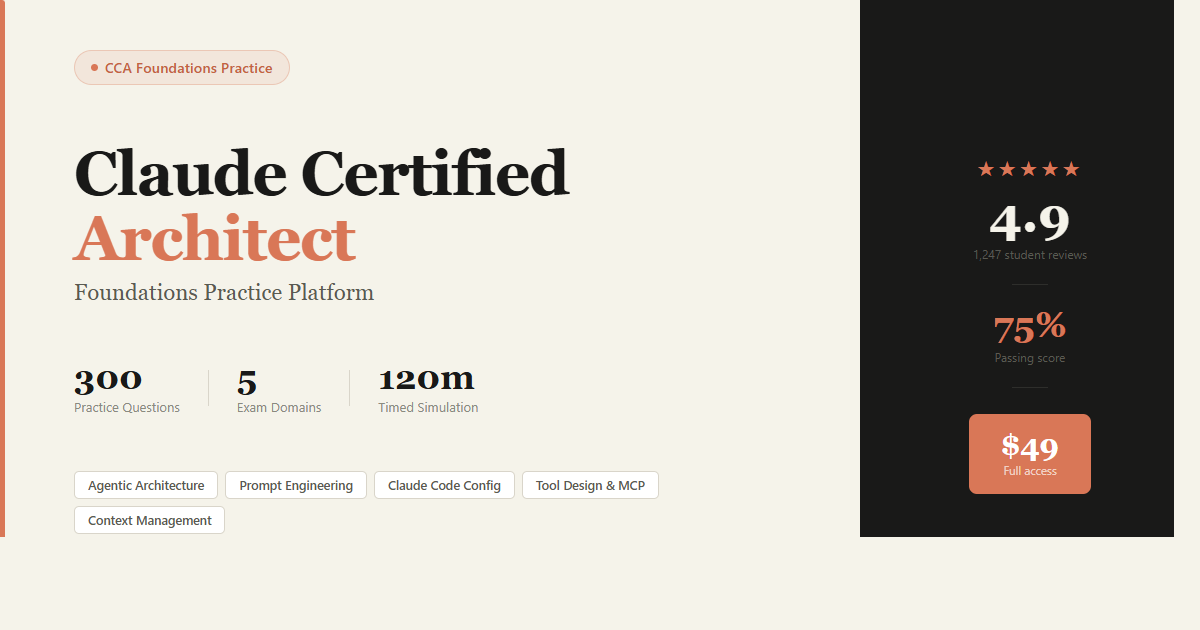
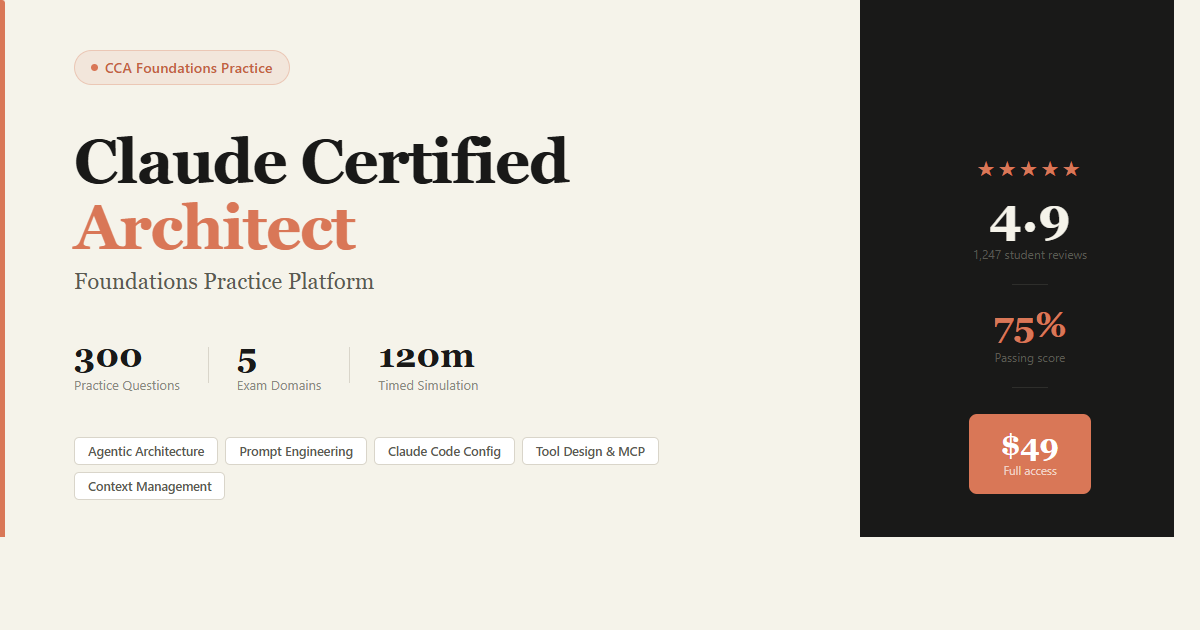
Move OG card footer higher, merge URL and disclaimer to one line
Footer now at bottom:80px (was 52px) — well clear of any preview cropping.
URL and disclaimer combined on one line separated by · for compactness.

diff --git a/og-image.html b/og-image.html
@@ -14,7 +14,7 @@ body{
 /* ── Left panel ─────────────────────────────── */
 .left{
   flex:1;
-  padding:50px 68px 96px 74px;
+  padding:50px 68px 130px 74px;
   display:flex;
   flex-direction:column;
   justify-content:space-between;
@@ -89,19 +89,19 @@ body{
 
 .footer-area{
   position:absolute;
-  bottom:52px;
+  bottom:80px;
   left:74px;
 }
 .footer-row{
-  display:flex;align-items:center;gap:8px;
+  display:flex;align-items:center;gap:10px;
   font-family:-apple-system,system-ui,sans-serif;
-  font-size:14px;color:#5a5a52;
+  font-size:13px;color:#5a5a52;
 }
-.footer-dot{width:5px;height:5px;background:#d97757;border-radius:50%}
+.footer-dot{width:5px;height:5px;background:#d97757;border-radius:50%;flex-shrink:0}
+.footer-sep{color:#d9d5ca;font-size:12px}
 .disclaimer{
-  margin-top:7px;
   font-family:-apple-system,system-ui,sans-serif;
-  font-size:12px;color:#5a5a52;
+  font-size:13px;color:#8a8a7f;
 }
 
 /* ── Right panel ─────────────────────────────── */
@@ -204,8 +204,9 @@ body{
     <div class="footer-row">
       <div class="footer-dot"></div>
       claudecertifiedarchitects.com
+      <span class="footer-sep">·</span>
+      <span class="disclaimer">For educational purposes only. Not affiliated with Anthropic.</span>
     </div>
-    <div class="disclaimer">For educational purposes only. Not affiliated with Anthropic.</div>
   </div>
 </div>
 

diff --git a/og-preview/index.html b/og-preview/index.html
@@ -14,7 +14,7 @@ body{
 /* ── Left panel ─────────────────────────────── */
 .left{
   flex:1;
-  padding:50px 68px 96px 74px;
+  padding:50px 68px 130px 74px;
   display:flex;
   flex-direction:column;
   justify-content:space-between;
@@ -89,19 +89,19 @@ body{
 
 .footer-area{
   position:absolute;
-  bottom:52px;
+  bottom:80px;
   left:74px;
 }
 .footer-row{
-  display:flex;align-items:center;gap:8px;
+  display:flex;align-items:center;gap:10px;
   font-family:-apple-system,system-ui,sans-serif;
-  font-size:14px;color:#5a5a52;
+  font-size:13px;color:#5a5a52;
 }
-.footer-dot{width:5px;height:5px;background:#d97757;border-radius:50%}
+.footer-dot{width:5px;height:5px;background:#d97757;border-radius:50%;flex-shrink:0}
+.footer-sep{color:#d9d5ca;font-size:12px}
 .disclaimer{
-  margin-top:7px;
   font-family:-apple-system,system-ui,sans-serif;
-  font-size:12px;color:#5a5a52;
+  font-size:13px;color:#8a8a7f;
 }
 
 /* ── Right panel ─────────────────────────────── */
@@ -204,8 +204,9 @@ body{
     <div class="footer-row">
       <div class="footer-dot"></div>
       claudecertifiedarchitects.com
+      <span class="footer-sep">·</span>
+      <span class="disclaimer">For educational purposes only. Not affiliated with Anthropic.</span>
     </div>
-    <div class="disclaimer">For educational purposes only. Not affiliated with Anthropic.</div>
   </div>
 </div>
 
